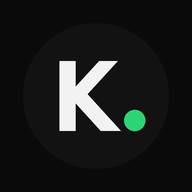
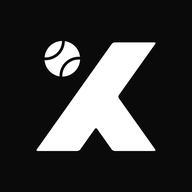
Add files via upload

Changed region(s): [[0.1875, 0.1875, 0.8125, 0.8125], [0.4688, 0.3438, 0.5, 0.375]]

diff --git a/index.html b/index.html
@@ -159,6 +159,8 @@ button:focus-visible,a:focus-visible{outline:2px solid var(--verde);outline-offs
 .regras li::before{content:counter(r);position:absolute;left:0;top:11px;width:26px;height:26px;border-radius:8px;background:var(--verde-f);color:var(--verde);
   font-family:"Bebas Neue",Impact,sans-serif;font-size:1.05rem;display:grid;place-items:center}
 .prof{display:flex;gap:16px;align-items:center}
+.marca{display:inline-flex;align-items:center}
+.logo-img{height:34px;width:auto;display:block}
 .prof .foto{width:84px;height:84px;border-radius:50%;object-fit:cover;flex:0 0 auto;border:2px solid var(--verde);background:var(--carta2);
   display:grid;place-items:center;font-family:"Bebas Neue",Impact,sans-serif;font-size:2rem;color:var(--verde)}
 .prof h3{margin:0;font-family:"Bebas Neue",Impact,sans-serif;font-weight:400;font-size:1.7rem;line-height:1}
@@ -248,7 +250,7 @@ button:focus-visible,a:focus-visible{outline:2px solid var(--verde);outline-offs
 <body>
 
 <header class="topo">
-  <a class="marca" href="/">KNUPP<i>.</i><small>REPOSIÇÕES</small></a>
+  <a class="marca" href="/"><img src="/logo.png" alt="Matheus Knupp Tennis" class="logo-img"><small>REPOSIÇÕES</small></a>
   <div class="topo-acoes">
     <button class="chip-btn oculto" id="btn-instalar" type="button">Instalar app</button>
     <button class="chip-btn oculto" id="btn-sair" type="button">Trocar número</button>
@@ -302,7 +304,7 @@ button:focus-visible,a:focus-visible{outline:2px solid var(--verde);outline-offs
     <h2 class="secao-t">SEU <span class="verde">PROFESSOR</span></h2>
     <div class="carta">
       <div class="prof">
-        <div class="foto" id="prof-foto">MK</div>
+        <div class="foto" id="prof-foto"><img src="/logo-simbolo.png" alt="" style="width:46%;height:auto"></div>
         <div><p class="eyebrow">Knupp Tênis</p><h3 id="prof-nome">Matheus Knupp</h3><p id="prof-bio"></p></div>
       </div>
       <div class="acoes" id="prof-acoes"></div>
@@ -632,7 +634,7 @@ $('engrenagem').onclick = () => { $('painel').classList.remove('oculto'); docume
 function fecharPainel(){ $('painel').classList.add('oculto'); document.body.style.overflow = ''; carregarInfo(); if (ALUNO.wpp) entrar(ALUNO.wpp, true); }
 
 function loginPainel(erro){
-  $('painel').innerHTML = `<div class="login-p"><div class="marca">KNUPP<i>.</i></div>
+  $('painel').innerHTML = `<div class="login-p"><img src="/logo.png" alt="Matheus Knupp Tennis" style="width:min(260px,80%);height:auto">
     <p class="eyebrow" style="margin:10px 0 28px">Dashboard · Área restrita</p>
     ${erro ? `<div class="aviso erro">${esc(erro)}</div>` : ''}
     <form id="f-login"><div class="campo"><input type="password" id="in-senha" placeholder="Senha" autocomplete="current-password"></div>
@@ -654,7 +656,7 @@ const ABAS = [['pedidos','Pedidos'],['horarios','Horários'],['alunos','Alunos']
 function desenharPainel(){
   const pend = pendentes().length;
   $('painel').innerHTML = `<div class="p-topo"><div class="p-linha">
-      <div class="marca">KNUPP<i>.</i><small>DASHBOARD</small></div>
+      <div class="marca"><img src="/logo.png" alt="Matheus Knupp Tennis" class="logo-img"><small>DASHBOARD</small></div>
       <div style="display:flex;gap:8px"><button class="chip-btn" id="p-atualizar">Atualizar</button><button class="chip-btn" id="p-fechar">Ver site</button></div></div>
     <nav class="p-abas">${ABAS.map(([k,t]) => `<button data-aba="${k}" class="${ABA===k?'on':''}">${t}${k==='pedidos'&&pend?`<span class="badge">${pend}</span>`:''}</button>`).join('')}</nav></div>
     <div class="p-miolo" id="p-miolo"></div>`;
@@ -1055,7 +1057,7 @@ function abaAjustes(){
       <div class="campo"><label>Hora de abertura (véspera)</label><input type="time" id="aj-hora" value="${esc(c.hora_abertura || '14:00')}"></div></div>
       <div class="campo"><label>Regras mostradas ao aluno (uma por linha)</label><textarea id="aj-regras" style="min-height:170px">${esc((c.regras||[]).join('\n'))}</textarea></div></div>
     <div class="p-titulo"><h2>PROFESSOR E <span class="verde">LOCAL</span></h2></div>
-    <div class="carta"><div class="prof" style="margin-bottom:16px">${c.foto ? `<img class="foto" src="${esc(c.foto)}" alt="">` : '<div class="foto">MK</div>'}
+    <div class="carta"><div class="prof" style="margin-bottom:16px">${c.foto ? `<img class="foto" src="${esc(c.foto)}" alt="">` : '<div class="foto"><img src="/logo-simbolo.png" alt="" style="width:46%;height:auto"></div>'}
         <div><label for="aj-foto" class="btn sec auto mini" style="letter-spacing:0;text-transform:none;font-size:.82rem;color:var(--texto)">Trocar foto</label>
         <input type="file" id="aj-foto" accept="image/*" class="oculto"></div></div>
       <div class="linha2"><div class="campo"><label>Nome</label><input id="aj-pnome" value="${esc(c.professor_nome||'')}"></div>

diff --git a/sw.js b/sw.js
@@ -1,6 +1,6 @@
 // Service worker simples: permite instalar como app e abre a última versão salva se a internet cair.
-const CACHE = 'knupp-repo-v2';
-self.addEventListener('install', e => { e.waitUntil(caches.open(CACHE).then(c => c.addAll(['/', '/manifest.webmanifest', '/icon-192.png']))); self.skipWaiting(); });
+const CACHE = 'knupp-repo-v3';
+self.addEventListener('install', e => { e.waitUntil(caches.open(CACHE).then(c => c.addAll(['/', '/manifest.webmanifest', '/icon-192.png', '/logo.png']))); self.skipWaiting(); });
 self.addEventListener('activate', e => { e.waitUntil(caches.keys().then(ks => Promise.all(ks.filter(k => k !== CACHE).map(k => caches.delete(k))))); self.clients.claim(); });
 self.addEventListener('fetch', e => {
   const url = new URL(e.request.url);
